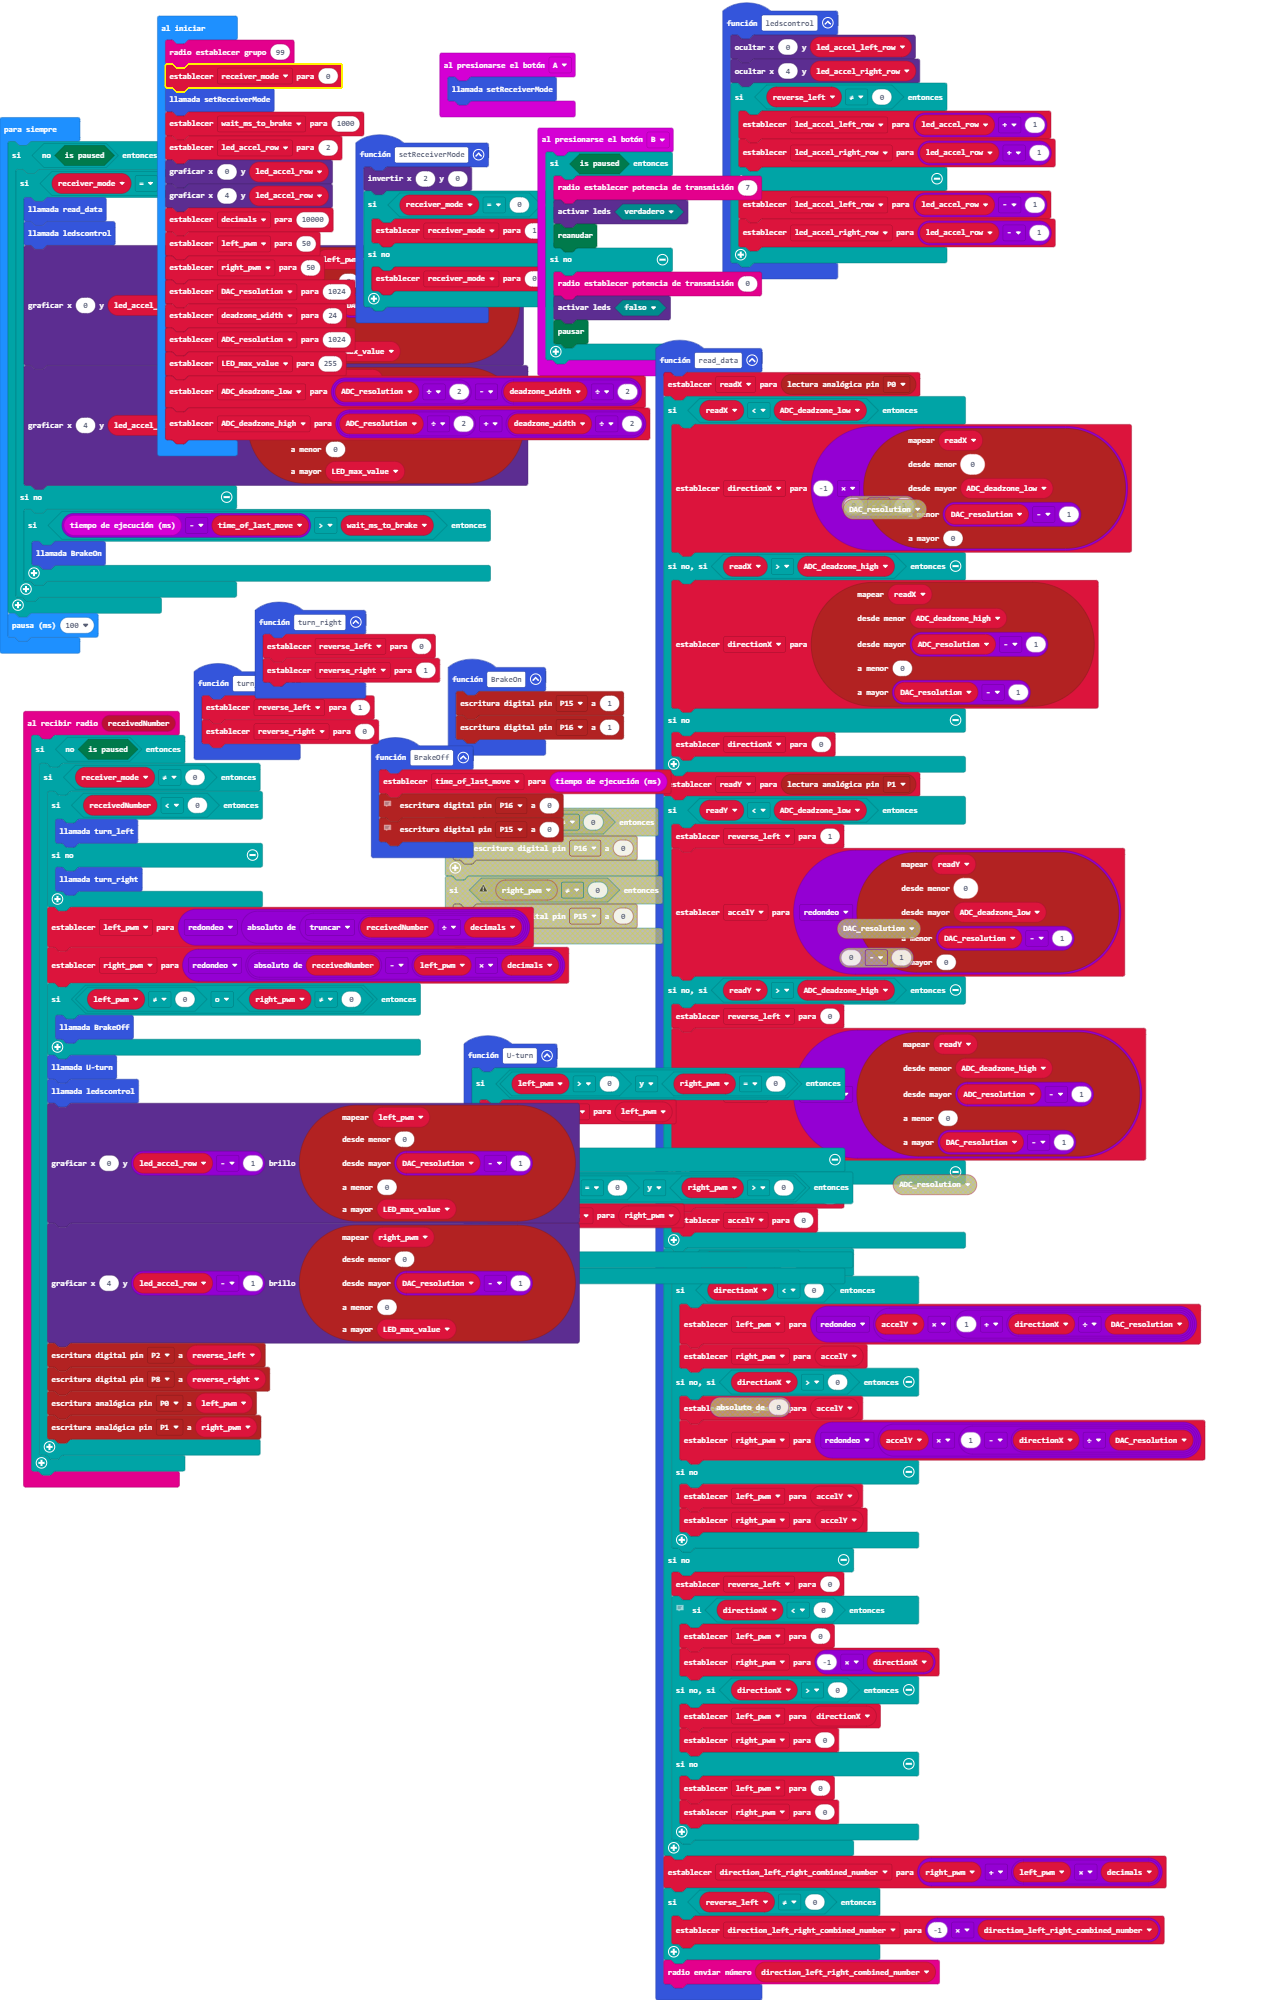
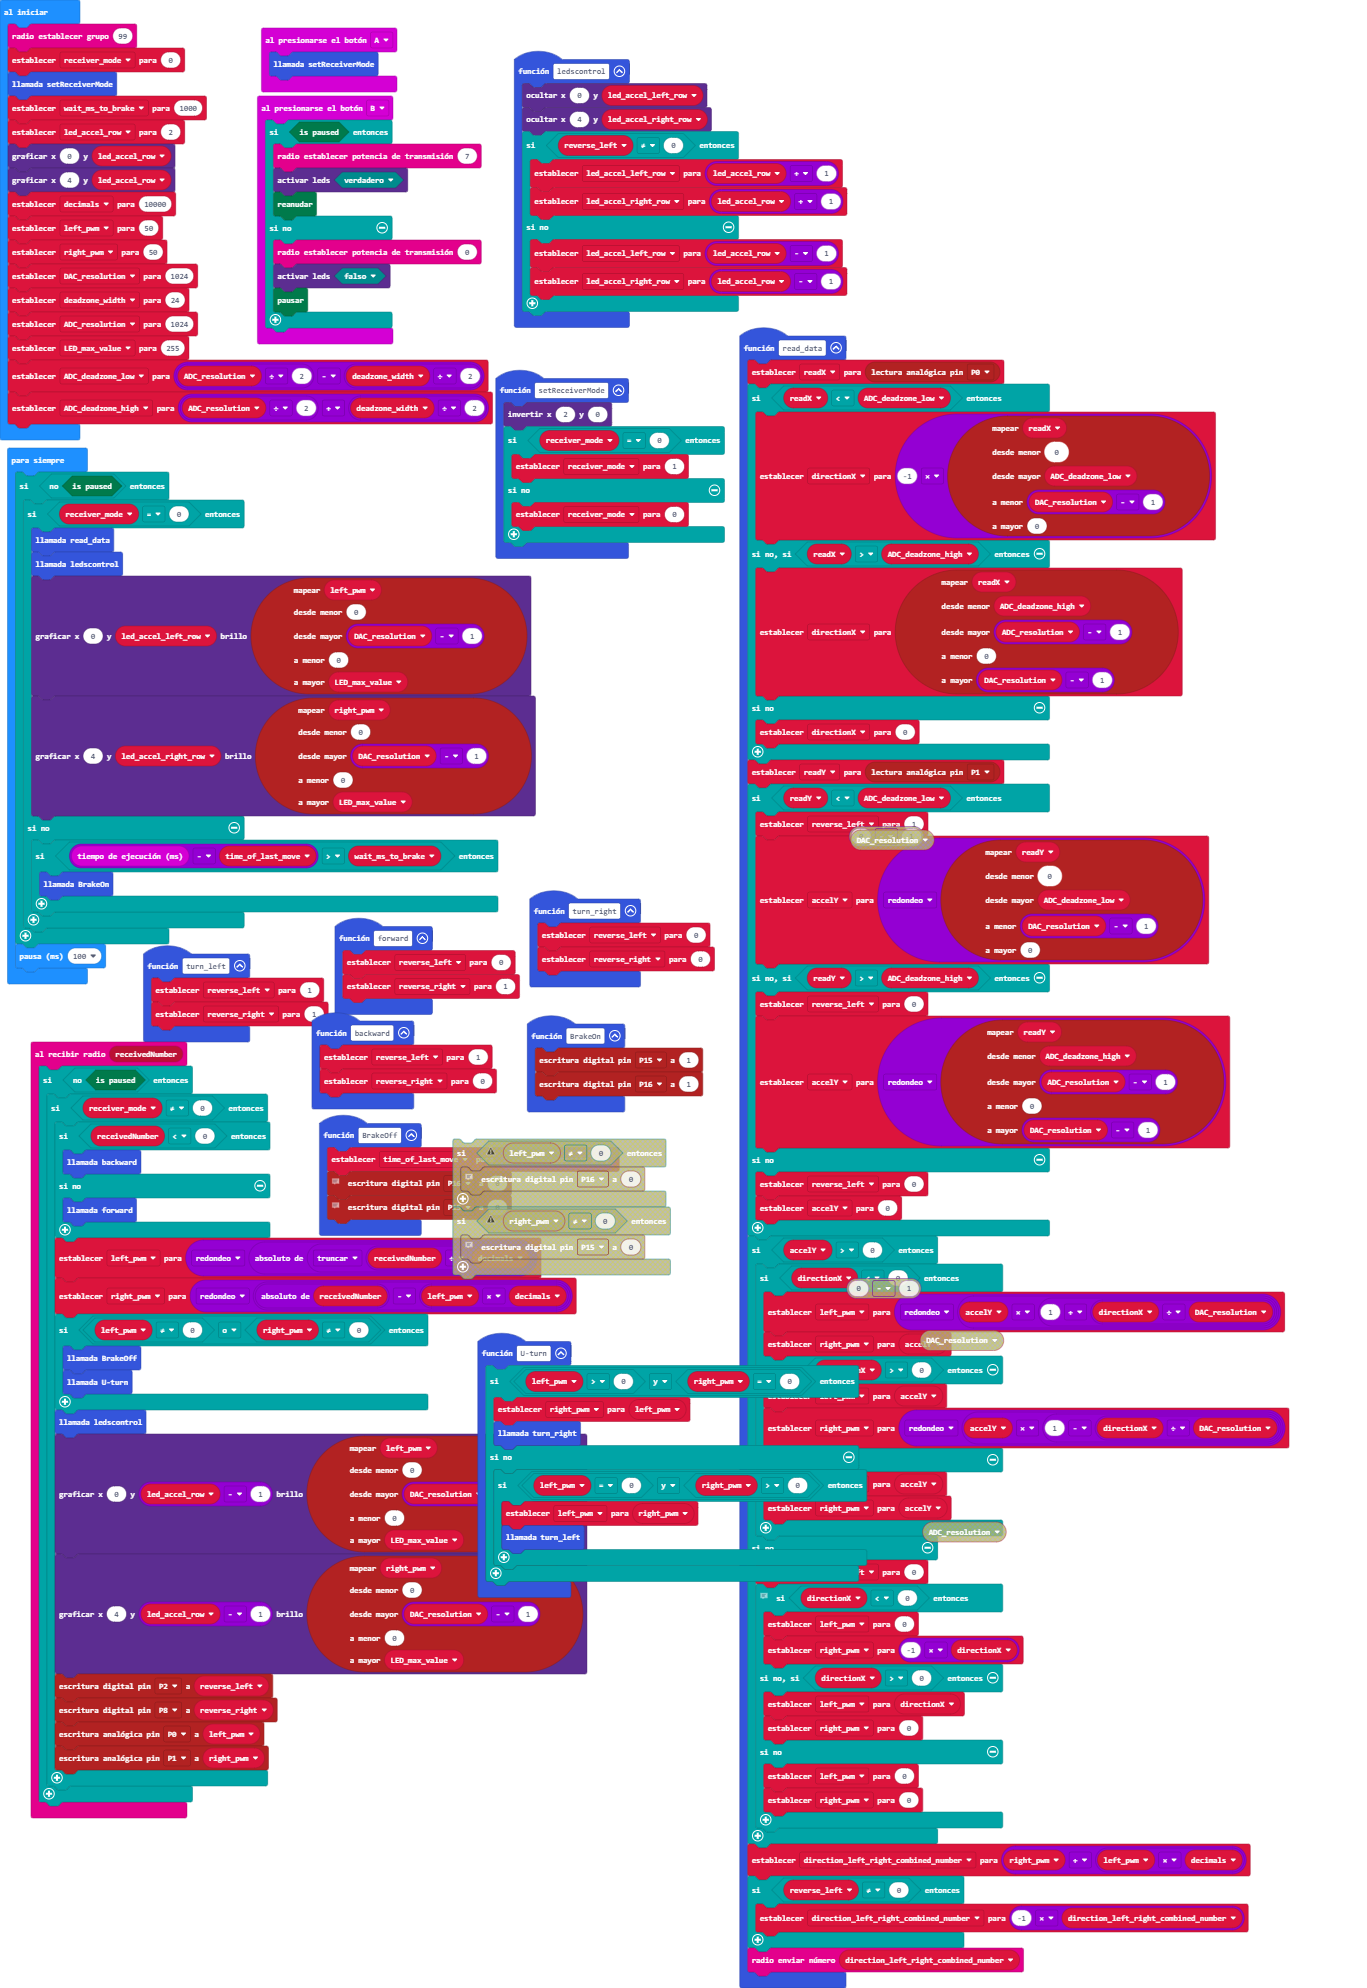
u turn test

diff --git a/main.ts b/main.ts
@@ -9,16 +9,16 @@ radio.onReceivedNumber(function (receivedNumber) {
     if (!(game.isPaused())) {
         if (receiver_mode != 0) {
             if (receivedNumber < 0) {
-                turn_left()
+                backward()
             } else {
-                turn_right()
+                forward()
             }
             left_pwm = Math.round(Math.abs(Math.trunc(receivedNumber / decimals)))
             right_pwm = Math.round(Math.abs(receivedNumber) - left_pwm * decimals)
             if (left_pwm != 0 || right_pwm != 0) {
                 BrakeOff()
+                Uturn()
             }
-            Uturn()
             ledscontrol()
             led.plotBrightness(0, led_accel_row - 1, pins.map(
             left_pwm,
@@ -143,9 +143,13 @@ function BrakeOn () {
     pins.digitalWritePin(DigitalPin.P15, 1)
     pins.digitalWritePin(DigitalPin.P16, 1)
 }
-function turn_left () {
+function backward () {
     reverse_left = 1
     reverse_right = 0
+}
+function turn_left () {
+    reverse_left = 1
+    reverse_right = 1
 }
 input.onButtonPressed(Button.B, function () {
     if (game.isPaused()) {
@@ -169,9 +173,13 @@ function ledscontrol () {
         led_accel_right_row = led_accel_row - 1
     }
 }
-function turn_right () {
+function forward () {
     reverse_left = 0
     reverse_right = 1
+}
+function turn_right () {
+    reverse_left = 0
+    reverse_right = 0
 }
 let led_accel_right_row = 0
 let led_accel_left_row = 0

diff --git a/main.py b/main.py
@@ -1,49 +1,68 @@
 function BrakeOff () {
-    time_of_last_move += input.runningTime()
+    time_of_last_move = input.runningTime()
     // Brake off
-    pins.digitalWritePin(DigitalPin.P3, 0)
+    pins.digitalWritePin(DigitalPin.P16, 0)
+    // Brake off
+    pins.digitalWritePin(DigitalPin.P15, 0)
 }
 radio.onReceivedNumber(function (receivedNumber) {
-    if (receiver_mode != 0) {
-        if (receivedNumber < 0) {
-            reverse_left = 1
-            reverse_right = 0
-        } else {
-            reverse_left = 0
-            reverse_right = 1
+    if (!(game.isPaused())) {
+        if (receiver_mode != 0) {
+            if (receivedNumber < 0) {
+                backward()
+            } else {
+                forward()
+            }
+            left_pwm = Math.round(Math.abs(Math.trunc(receivedNumber / decimals)))
+            right_pwm = Math.round(Math.abs(receivedNumber) - left_pwm * decimals)
+            if (left_pwm != 0 || right_pwm != 0) {
+                BrakeOff()
+                Uturn()
+            }
+            ledscontrol()
+            led.plotBrightness(0, led_accel_row - 1, pins.map(
+            left_pwm,
+            0,
+            DAC_resolution - 1,
+            0,
+            LED_max_value
+            ))
+            led.plotBrightness(4, led_accel_row - 1, pins.map(
+            right_pwm,
+            0,
+            DAC_resolution - 1,
+            0,
+            LED_max_value
+            ))
+            pins.digitalWritePin(DigitalPin.P2, reverse_left)
+            pins.digitalWritePin(DigitalPin.P8, reverse_right)
+            pins.analogWritePin(AnalogPin.P0, left_pwm)
+            pins.analogWritePin(AnalogPin.P1, right_pwm)
         }
-        ledscontrol()
-        led.plotBrightness(0, led_accel_row - 1, pins.map(
-        left_pwm,
-        0,
-        DAC_resolution - 1,
-        0,
-        LED_max_value
-        ))
-        led.plotBrightness(4, led_accel_row - 1, pins.map(
-        right_pwm,
-        0,
-        DAC_resolution - 1,
-        0,
-        LED_max_value
-        ))
-        left_pwm = Math.round(Math.abs(Math.trunc(receivedNumber / decimals)))
-        right_pwm = Math.round(Math.abs(receivedNumber) - left_pwm * decimals)
-        BrakeOff()
-        pins.digitalWritePin(DigitalPin.P2, reverse_left)
-        pins.digitalWritePin(DigitalPin.P8, reverse_right)
-        pins.analogWritePin(AnalogPin.P0, left_pwm)
-        pins.analogWritePin(AnalogPin.P1, right_pwm)
     }
 })
-input.onButtonPressed(Button.A, function () {
+function setReceiverMode () {
     led.toggle(2, 0)
     if (receiver_mode == 0) {
         receiver_mode = 1
     } else {
         receiver_mode = 0
     }
+}
+input.onButtonPressed(Button.A, function () {
+    setReceiverMode()
 })
+function Uturn () {
+    if (left_pwm > 0 && right_pwm == 0) {
+        right_pwm = left_pwm
+        turn_right()
+    } else {
+        if (left_pwm == 0 && right_pwm > 0) {
+            left_pwm = right_pwm
+            turn_left()
+        }
+    }
+}
 function read_data () {
     readX = pins.analogReadPin(AnalogPin.P0)
     if (readX < ADC_deadzone_low) {
@@ -88,15 +107,31 @@ function read_data () {
         reverse_left = 0
         accelY = 0
     }
-    if (directionX < 0) {
-        left_pwm = Math.round(accelY * (1 + directionX / DAC_resolution))
-        right_pwm = accelY
-    } else if (directionX > 0) {
-        left_pwm = accelY
-        right_pwm = Math.round(accelY * (1 - directionX / DAC_resolution))
+    if (accelY > 0) {
+        if (directionX < 0) {
+            left_pwm = Math.round(accelY * (1 + directionX / DAC_resolution))
+            right_pwm = accelY
+        } else if (directionX > 0) {
+            left_pwm = accelY
+            right_pwm = Math.round(accelY * (1 - directionX / DAC_resolution))
+        } else {
+            left_pwm = accelY
+            right_pwm = accelY
+        }
     } else {
-        left_pwm = accelY
-        right_pwm = accelY
+        reverse_left = 0
+        // rotate in place
+        // 
+        if (directionX < 0) {
+            left_pwm = 0
+            right_pwm = -1 * directionX
+        } else if (directionX > 0) {
+            left_pwm = directionX
+            right_pwm = 0
+        } else {
+            left_pwm = 0
+            right_pwm = 0
+        }
     }
     direction_left_right_combined_number = right_pwm + left_pwm * decimals
     if (reverse_left != 0) {
@@ -105,8 +140,28 @@ function read_data () {
     radio.sendNumber(direction_left_right_combined_number)
 }
 function BrakeOn () {
-    pins.digitalWritePin(DigitalPin.P3, 1)
+    pins.digitalWritePin(DigitalPin.P15, 1)
+    pins.digitalWritePin(DigitalPin.P16, 1)
 }
+function backward () {
+    reverse_left = 1
+    reverse_right = 0
+}
+function turn_left () {
+    reverse_left = 1
+    reverse_right = 1
+}
+input.onButtonPressed(Button.B, function () {
+    if (game.isPaused()) {
+        radio.setTransmitPower(7)
+        led.enable(true)
+        game.resume()
+    } else {
+        radio.setTransmitPower(0)
+        led.enable(false)
+        game.pause()
+    }
+})
 function ledscontrol () {
     led.unplot(0, led_accel_left_row)
     led.unplot(4, led_accel_right_row)
@@ -117,6 +172,14 @@ function ledscontrol () {
         led_accel_left_row = led_accel_row - 1
         led_accel_right_row = led_accel_row - 1
     }
+}
+function forward () {
+    reverse_left = 0
+    reverse_right = 1
+}
+function turn_right () {
+    reverse_left = 0
+    reverse_right = 0
 }
 let led_accel_right_row = 0
 let led_accel_left_row = 0
@@ -139,8 +202,8 @@ let decimals = 0
 let led_accel_row = 0
 let receiver_mode = 0
 radio.setGroup(99)
-pins.setEvents(DigitalPin.P3, PinEventType.Touch)
-receiver_mode = 1
+receiver_mode = 0
+setReceiverMode()
 let wait_ms_to_brake = 1000
 led_accel_row = 2
 led.plot(0, led_accel_row)
@@ -155,26 +218,28 @@ LED_max_value = 255
 ADC_deadzone_low = ADC_resolution / 2 - deadzone_width / 2
 ADC_deadzone_high = ADC_resolution / 2 + deadzone_width / 2
 basic.forever(function () {
-    if (receiver_mode == 0) {
-        read_data()
-        ledscontrol()
-        led.plotBrightness(0, led_accel_left_row, pins.map(
-        left_pwm,
-        0,
-        DAC_resolution - 1,
-        0,
-        LED_max_value
-        ))
-        led.plotBrightness(4, led_accel_right_row, pins.map(
-        right_pwm,
-        0,
-        DAC_resolution - 1,
-        0,
-        LED_max_value
-        ))
-    } else {
-        if (input.runningTime() - time_of_last_move > wait_ms_to_brake) {
-        	
+    if (!(game.isPaused())) {
+        if (receiver_mode == 0) {
+            read_data()
+            ledscontrol()
+            led.plotBrightness(0, led_accel_left_row, pins.map(
+            left_pwm,
+            0,
+            DAC_resolution - 1,
+            0,
+            LED_max_value
+            ))
+            led.plotBrightness(4, led_accel_right_row, pins.map(
+            right_pwm,
+            0,
+            DAC_resolution - 1,
+            0,
+            LED_max_value
+            ))
+        } else {
+            if (input.runningTime() - time_of_last_move > wait_ms_to_brake) {
+                BrakeOn()
+            }
         }
     }
     basic.pause(100)
